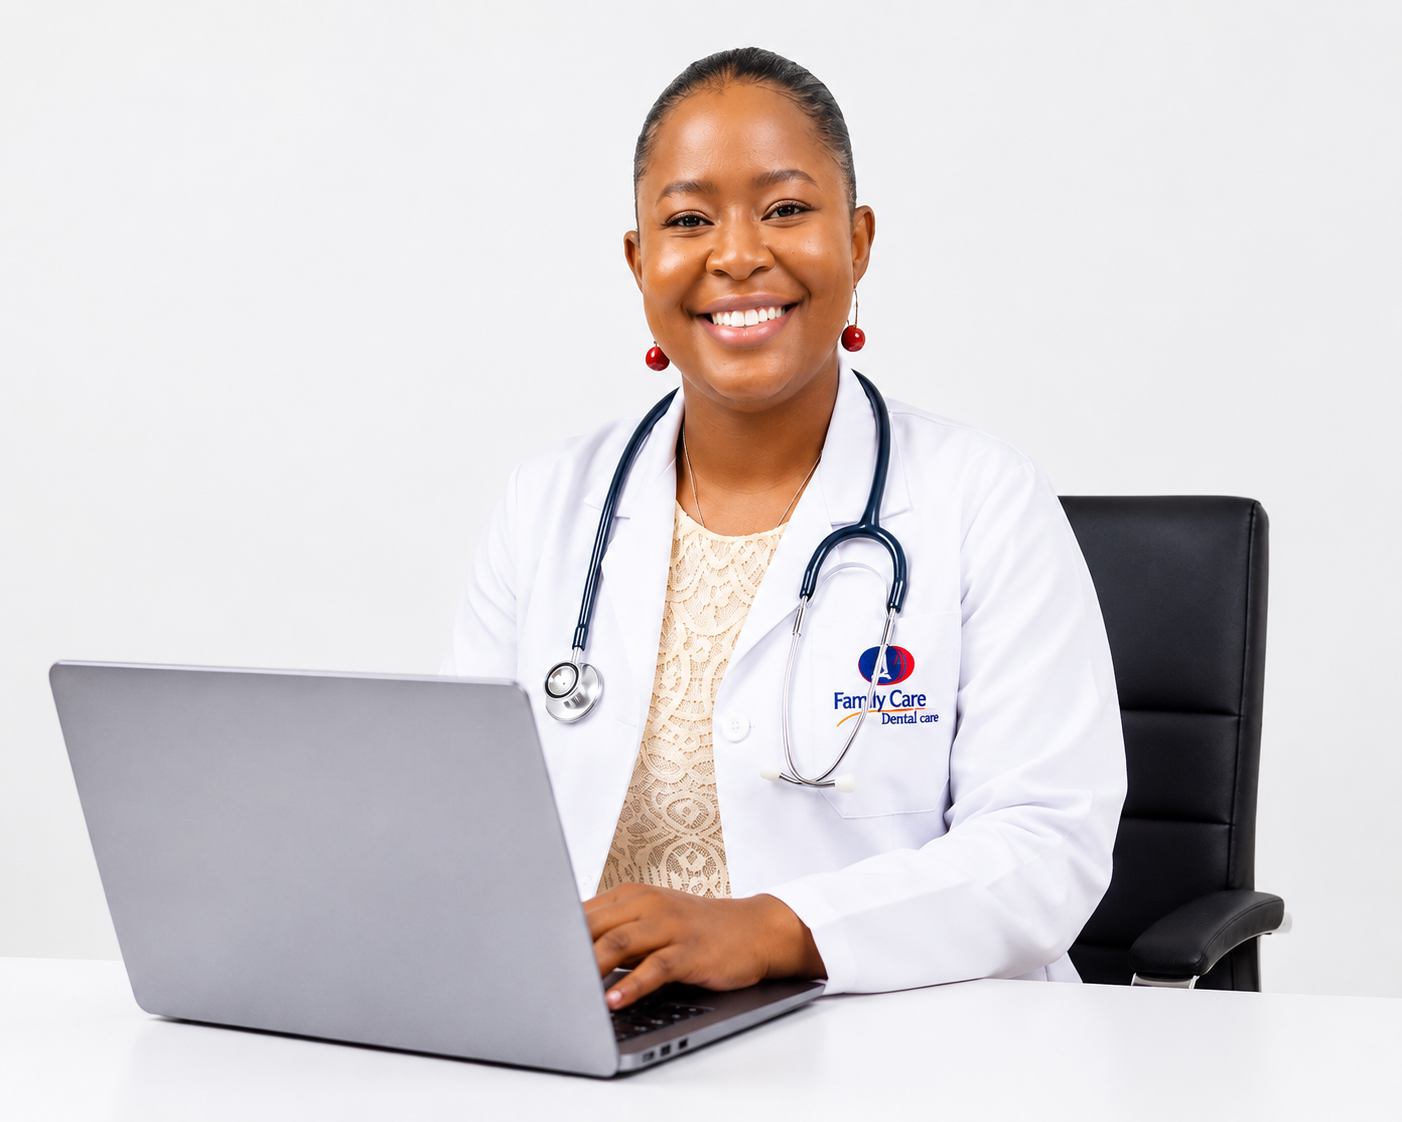
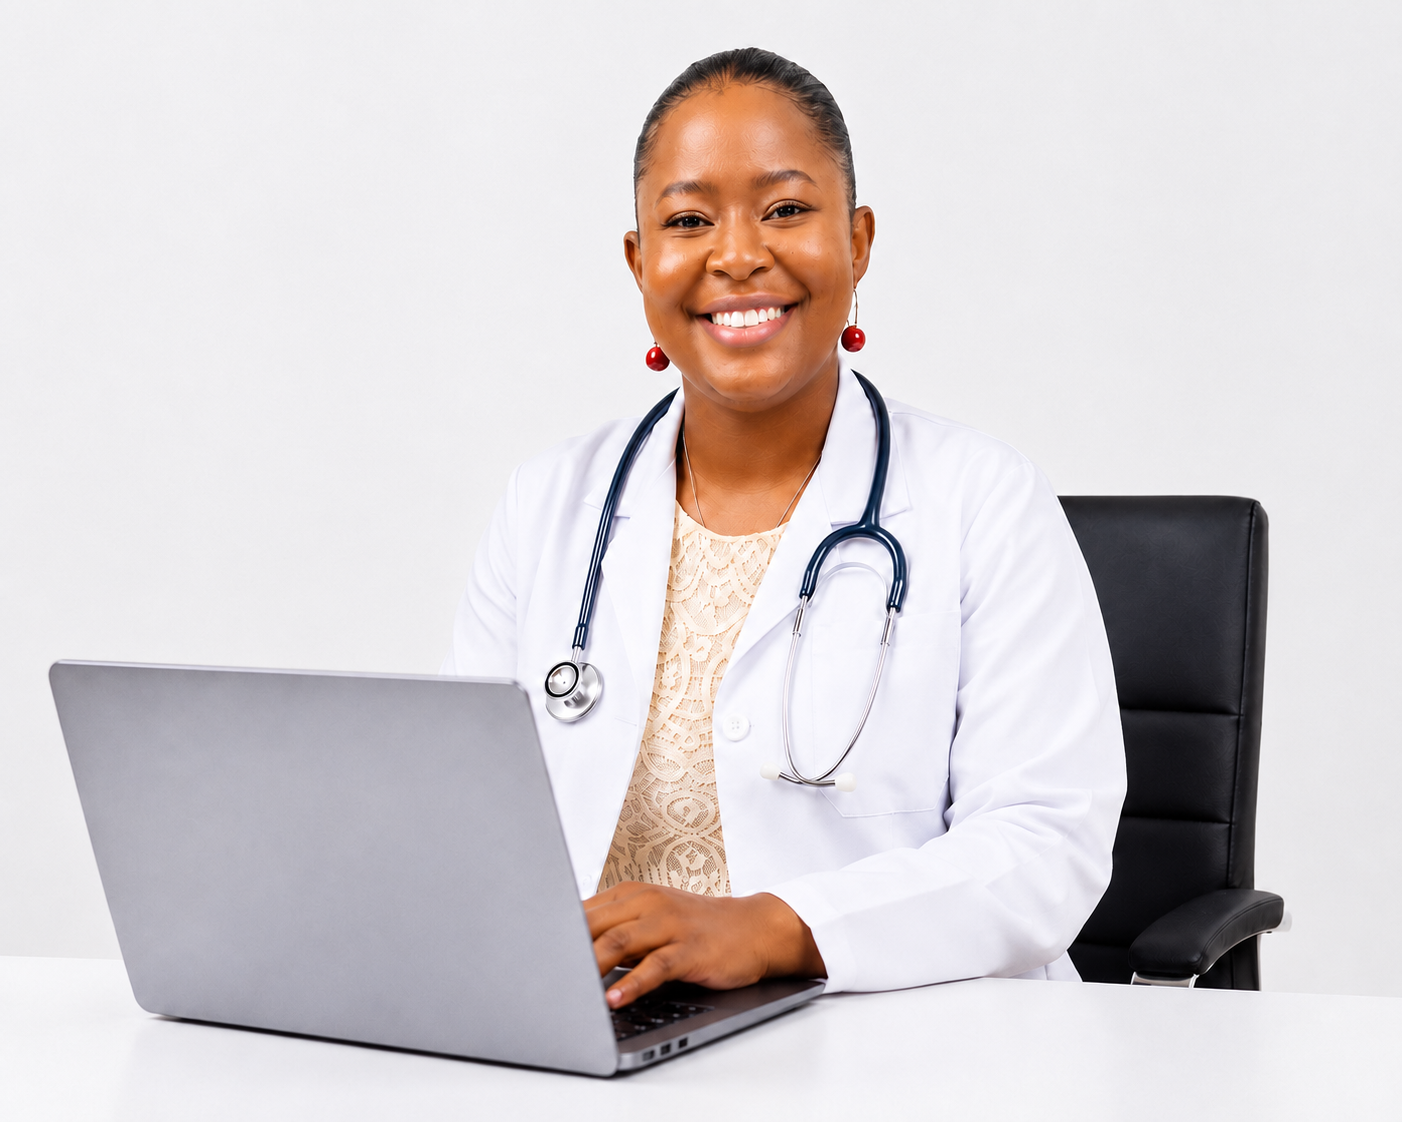
image

diff --git a/src/components/site/Navbar.tsx b/src/components/site/Navbar.tsx
@@ -214,7 +214,7 @@ export function Navbar() {
         <div className="mx-auto max-w-7xl px-4 py-3 md:px-8">
           <div className="grid gap-3 lg:grid-cols-[auto_minmax(0,1fr)] lg:items-center rounded-2xl p-2">
             <Link to="/" className="flex items-center gap-2.5 group lg:min-w-60">
-              <img src={logoImage} alt="Nuno Pharmacy logo" className="h-26 w-26 object-cover transition group-hover:scale-105" />
+              <img src={logoImage} alt="Nuno Pharmacy logo" className="h-30 w-30 object-cover transition group-hover:scale-105" />
               <span className="font-display text-lg font-bold tracking-tight"><span className="text-primary">Pharmacy</span></span>
             </Link>
 

diff --git a/src/routes/services.tsx b/src/routes/services.tsx
@@ -252,7 +252,7 @@ function ServicesPage() {
         compact
         eyebrow="Services"
         title="Reliable laboratory diagnostics with professional care"
-        subtitle="Committed to providing accurate and affordable medical laboratory services at your confort zone-from in house diagnostics to home and office sample collection and delivery."
+        subtitle="Committed to providing accurate and affordable medical laboratory services at your comfort zone-from in house diagnostics to home and office sample collection and delivery."
       />
 
       <section className="py-8">

diff --git a/src/lib/site-data.ts b/src/lib/site-data.ts
@@ -44,7 +44,7 @@ export const whyChooseItems = [
     href: "/shop",
   },
   {
-    title: "Affordable Healthcare",
+    title: "Book doctor's Appointment",
     description: "Quality healthcare solutions at prices everyone can afford.",
     href: "/book-appointment",
   },
